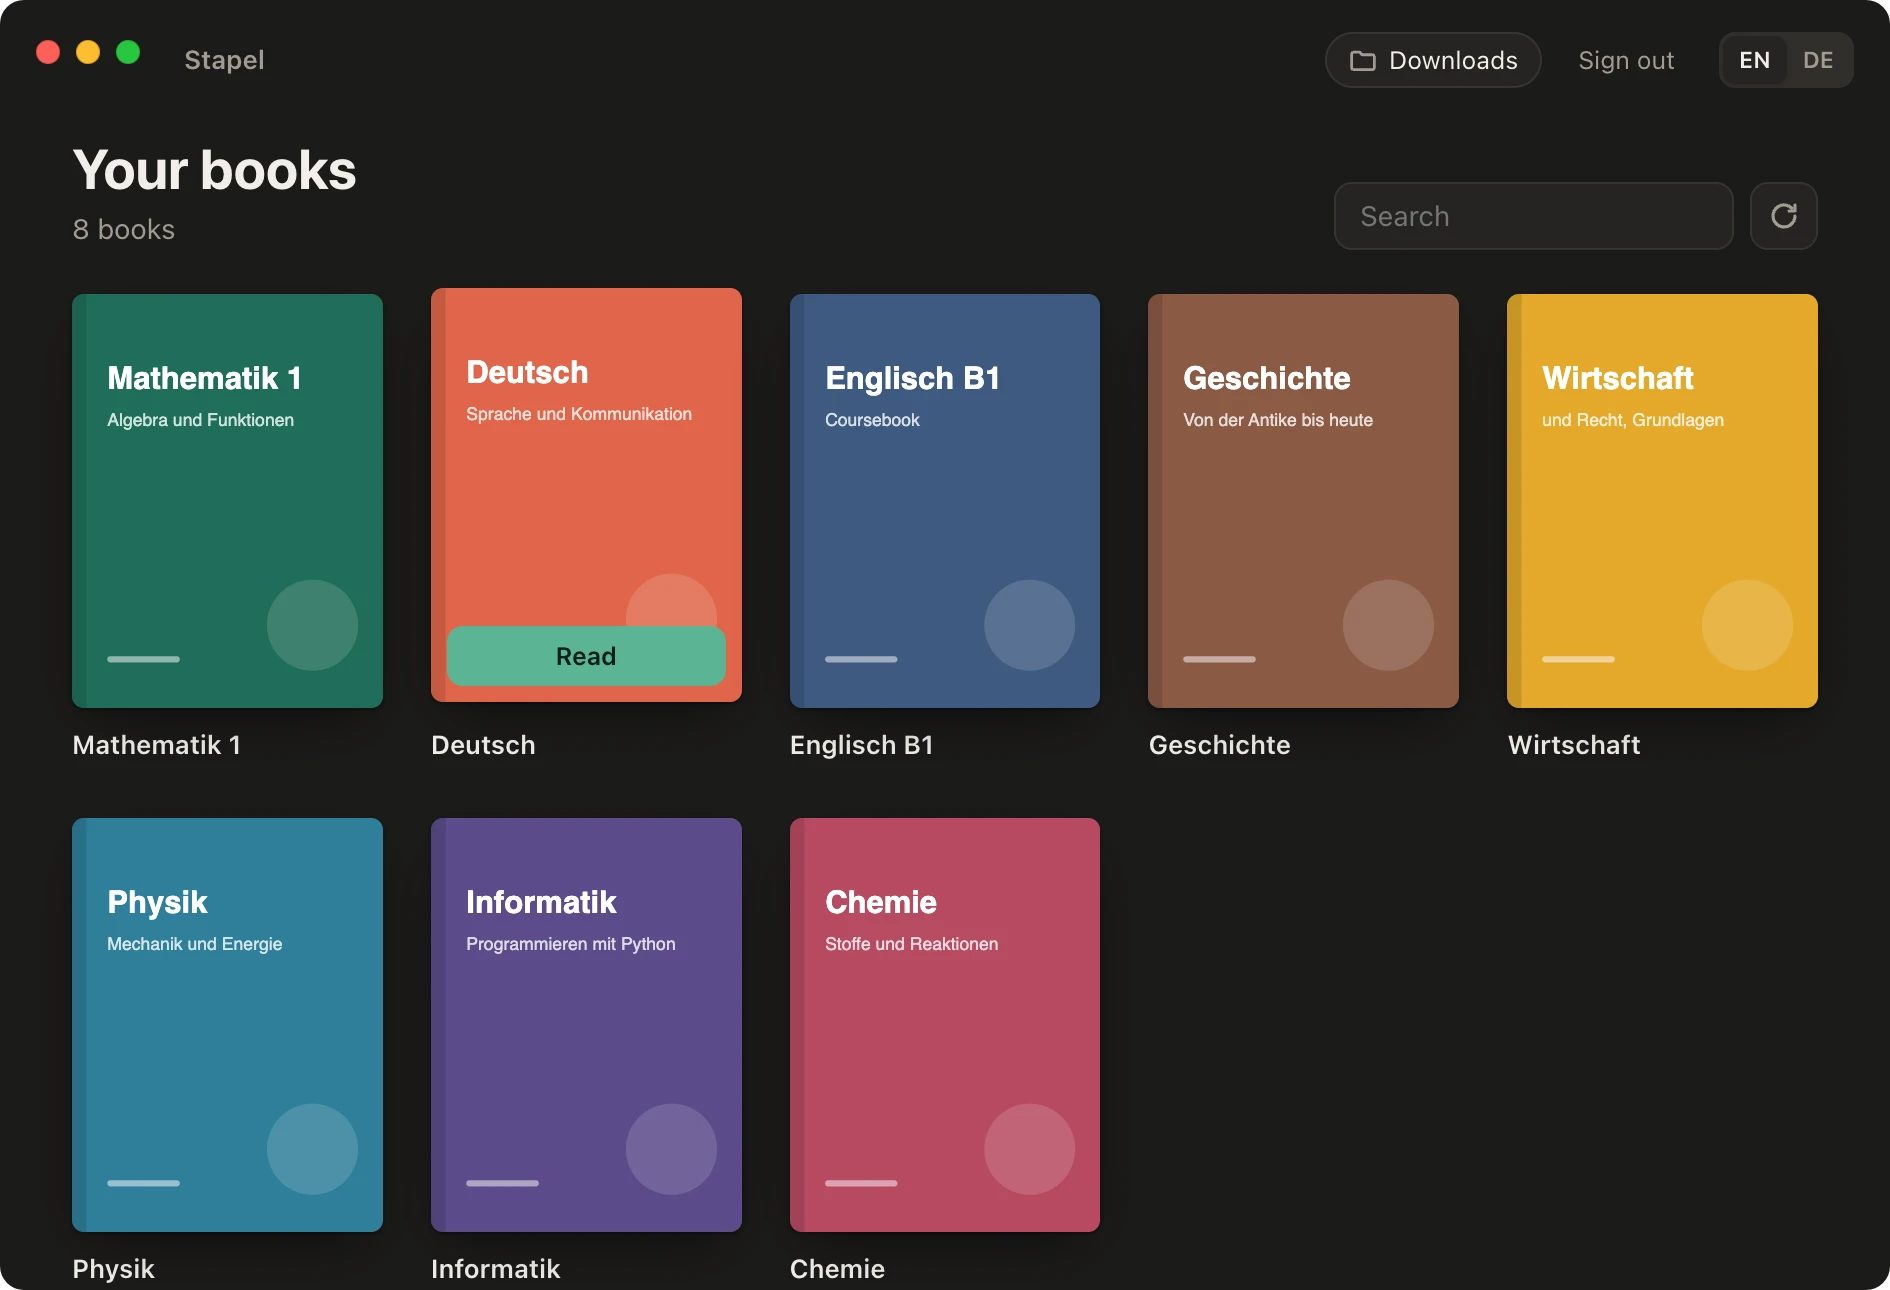
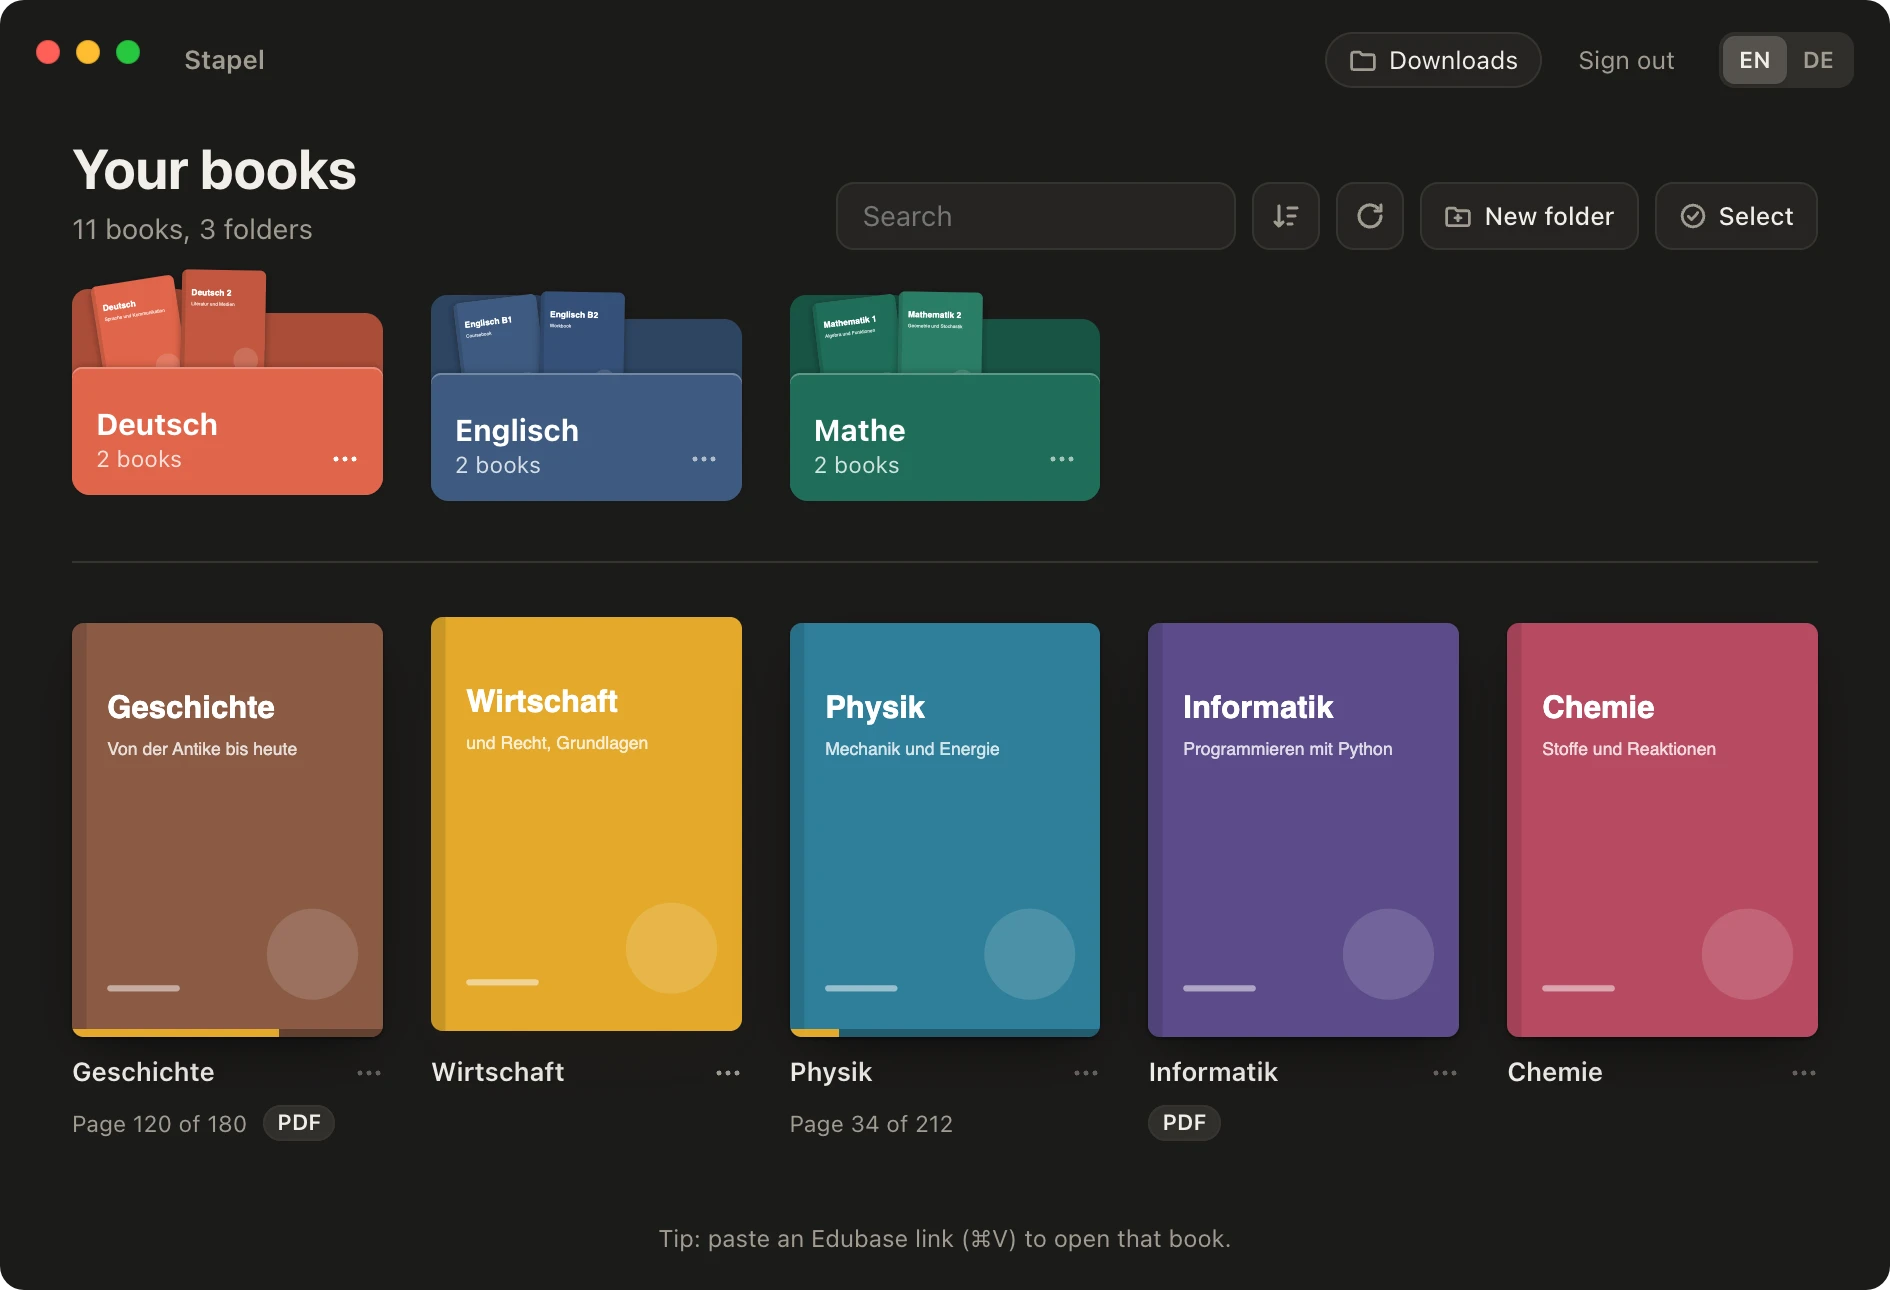
Stapel 1.2: new pictures (folders, reader, notes, pick, several PDFs)

diff --git a/render.js b/render.js
@@ -6,7 +6,7 @@
 
 // Cloudflare keeps pictures for hours under their address. Raise this number
 // whenever a file in assets/ is replaced, so visitors get the new one.
-const ASSETS = "10";
+const ASSETS = "11";
 const asset = (path) => `${path}?v=${ASSETS}`;
 
 // How the known apps are presented. A repository that is not listed here
